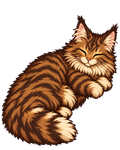
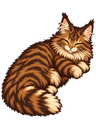
feat: みみぞうの歩行素材を用意しソファーのクーンを縮小する

diff --git a/docs/mimizou-walk-preview.html b/docs/mimizou-walk-preview.html
@@ -1,0 +1,37 @@
+<!doctype html>
+<html lang="ja">
+  <meta charset="utf-8" />
+  <meta name="viewport" content="width=device-width, initial-scale=1" />
+  <title>みみぞうの歩行素材プレビュー</title>
+  <style>
+    body { margin: 0; padding: 32px; font-family: system-ui, sans-serif; background: #ede6d7; color: #3c352c; }
+    main { max-width: 900px; margin: auto; }
+    h1 { font-size: 24px; }
+    p { line-height: 1.8; }
+    .directions { display: flex; flex-wrap: wrap; gap: 24px; }
+    figure { margin: 0; padding: 20px; border-radius: 12px; background: #fffaf0; text-align: center; }
+    .sprite { width: 96px; height: 104px; margin: auto; image-rendering: pixelated;
+      background-image: url('../assets/mimizou-walk-pixel.webp'); background-size: 288px 416px;
+      background-position-y: var(--row); animation: walk 640ms step-end infinite; }
+    figcaption { margin-top: 12px; }
+    .idle { width: 93px; height: 97px; image-rendering: pixelated; }
+    .paused .sprite { animation: none; background-position-x: -96px; }
+    button { padding: 10px 18px; font: inherit; margin: 20px 0; cursor: pointer; }
+    @keyframes walk { 0%,100% { background-position-x: 0; } 25%,75% { background-position-x: -96px; } 50% { background-position-x: -192px; } }
+    @media (prefers-reduced-motion: reduce) { .sprite { animation: none; background-position-x: -96px; } }
+  </style>
+  <main>
+    <h1>みみぞうの歩行素材プレビュー</h1>
+    <p>正面・左・右・後ろの4方向を収めた12コマの素材です。現在のゲームでは正面の静止コマを使っています。</p>
+    <button type="button" aria-pressed="false" onclick="const paused=document.body.classList.toggle('paused'); this.setAttribute('aria-pressed',String(paused)); this.textContent=paused?'歩行を再生':'静止コマで止める'">静止コマで止める</button>
+    <div class="directions">
+      <figure><div class="sprite" style="--row:0px" role="img" aria-label="正面の歩行"></div><figcaption>正面</figcaption></figure>
+      <figure><div class="sprite" style="--row:-104px" role="img" aria-label="左向きの歩行"></div><figcaption>左</figcaption></figure>
+      <figure><div class="sprite" style="--row:-208px" role="img" aria-label="右向きの歩行"></div><figcaption>右</figcaption></figure>
+      <figure><div class="sprite" style="--row:-312px" role="img" aria-label="後ろ向きの歩行"></div><figcaption>後ろ</figcaption></figure>
+    </div>
+    <h2>現在のシーンで使う静止素材</h2>
+    <img class="idle" src="../assets/mimizou-pixel.png" alt="正面で静止するみみぞう" />
+    <p>1コマは96×104px。列は左足・静止・右足、再生順は0→1→2→1です。ゲーム内の歩行機能はまだ追加していません。</p>
+  </main>
+</html>

diff --git a/tests/character-asset-quality.spec.ts b/tests/character-asset-quality.spec.ts
@@ -16,7 +16,7 @@ const singleSprites = [
 ];
 
 describe("character sprite transparency", () => {
-  it.each([...sheets, WALK_ASSET_NAME, ...singleSprites])(
+  it.each([...sheets, WALK_ASSET_NAME, "mimizou-walk-pixel.webp", ...singleSprites])(
     "removes the backing and keeps each frame inside its cell: %s",
     async (name) => {
       const { data, info } = await sharp(decodeURIComponent(new URL(name, assetDirectory).pathname))
@@ -24,7 +24,9 @@ describe("character sprite transparency", () => {
         .raw()
         .toBuffer({ resolveWithObject: true });
       const columns = singleSprites.includes(name) ? 1 : 3;
-      const rows = name === WALK_ASSET_NAME ? 4 : name === "etokichi-watering-directions-pixel.webp" ? 2 : 1;
+      const isWalkSheet = name === WALK_ASSET_NAME || name === "mimizou-walk-pixel.webp";
+      const rows = isWalkSheet ? 4 : name === "etokichi-watering-directions-pixel.webp" ? 2 : 1;
+      if (isWalkSheet) expect([info.width, info.height]).toEqual([288, 416]);
       const width = info.width / columns;
       const height = info.height / rows;
       const visibleByCell = Array<number>(columns * rows).fill(0);

diff --git a/tests/assets.spec.ts b/tests/assets.spec.ts
@@ -7,8 +7,8 @@ import { FURNITURE_DEFINITIONS } from "../src/rendering/room-furniture.ts";
 import { ACTION_ASSET_NAMES, WALK_ASSET_NAME } from "../src/rendering/scene-assets.ts";
 import { presentationAssetNames, VISITS } from "./helpers/asset-references.ts";
 
-// ロゴはfaviconやOGP向けで、部屋の描画からは参照しない。
-const UNREFERENCED_ASSET_NAMES = new Set(["etokicchi-logo.png"]);
+// ロゴはfaviconやOGP向け。みみぞうの歩行シートは将来の移動用で、現行シーンは正面の静止素材を使う。
+const UNREFERENCED_ASSET_NAMES = new Set(["etokicchi-logo.png", "mimizou-walk-pixel.webp"]);
 
 const referencedAssetNames = new Set<string>([
   ...Object.values(ACTION_ASSET_NAMES).filter((name): name is string => Boolean(name)),

diff --git a/src/content/updates.ts b/src/content/updates.ts
@@ -10,6 +10,14 @@ export interface UpdateEntry {
 /** 新しい更新を先頭に追加する。日付は変更をまとめた日。 */
 export const UPDATES: readonly UpdateEntry[] = [
   {
+    id: "2026-09-12-5",
+    date: "2026-09-12",
+    changes: [
+      "みみぞうの姿を、新しいイラストに合わせて整えました。",
+      "ソファーの上のクーンちゃんを、一回り小さくしました。",
+    ],
+  },
+  {
     id: "2026-09-12-4",
     date: "2026-09-12",
     changes: [

diff --git a/src/content/scene-presentations.ts b/src/content/scene-presentations.ts
@@ -748,8 +748,8 @@ export const SCENE_PRESENTATIONS: Readonly<Record<SceneId, ScenePresentationDefi
           furnitureId: "sofa",
           assetName: "decor-cat-sofa-curled-compact-pixel.webp",
           offset: { x: 8, y: -14 },
-          width: 60,
-          height: 75,
+          width: 48,
+          height: 60,
           depthOffset: 1,
         },
       },

diff --git a/tests/room-presentation.spec.ts b/tests/room-presentation.spec.ts
@@ -393,8 +393,8 @@ describe("room presentation", () => {
           furnitureId: "sofa",
           assetName: "decor-cat-sofa-curled-compact-pixel.webp",
           offset: { x: 8, y: -14 },
-          width: 60,
-          height: 75,
+          width: 48,
+          height: 60,
           depthOffset: 1,
         },
       },

diff --git a/docs/mimizou-imagegen.md b/docs/mimizou-imagegen.md
@@ -1,6 +1,51 @@
 # みみぞうの画像生成記録
 
-## 現行素材: オリジナルのフォルムを復元
+## 現行素材: 歩行用12コマと静止コマ
+
+外見の基準はタダシが新たに指定した [デザイン参照](assets/mimizou-design-reference.png)。大きな縦長の白目、下寄りの小さな瞳、丸い体、灰色の腹部の斑点、短い黄色の足を保持し、組み込みimagegenで4方向の歩行素材を制作した。
+
+| ファイル | 用途 |
+| --- | --- |
+| `assets-src/mimizou-pixel.png` | 1086×1448pxの原画。3列×4行、単色マゼンタ背景 |
+| `public/assets/mimizou-walk-pixel.webp` | 将来の歩行用。288×416px、各コマ96×104px |
+| `public/assets/mimizou-pixel.png` | 現行シーン用の正面静止コマ。93×97px |
+
+- 行は正面・左・右・後ろ。列は左足の一歩・静止・右足の一歩。
+- 歩行ループは列0→1→2→1。プレビューでは1コマ160ms。停止は各行の中央コマ。
+- 足元アンカーは中央下。歩行シートの足元はセル下端から4px上を基準とし、歩幅の差を残して行ごとに整列する。
+- `pnpm assets:normalize` は透過後に列ごとの4つの不透明帯を検出し、全12コマ共通倍率でセルへ収める。既存エトキチの変換倍率は変えない。
+- 静止PNGは同じ原画の正面中央コマから、左394・上41・幅298・高さ300を切り出して生成する。
+- 現行の訪問・見送り・星見は静止PNGを継続使用し、歩行アニメーションや移動経路は追加しない。歩行WebPは将来用として未使用素材チェックに明示的な例外を設けた。
+
+[歩行プレビュー](http://127.0.0.1:4173/etokicchi/docs/mimizou-walk-preview.html) は開発サーバー上で開く。4方向の歩行と各方向の静止を比較できる。
+
+### 生成プロンプト
+
+検証は12コマの境界・空白・透過検査と歩行プレビューの全方向全コマ、訪問・見送り・星見・ソファーのクーンを390px幅と1280px幅で確認した。星見のみみぞうのタップで本人のフキダシが出ることも確認。523テスト・型検査・整形・ビルド成功、既存Lint警告3件。素材変換を再実行して対象3素材と既存エトキチ歩行シートのSHA-256が一致した。
+
+画像1が新しいデザイン参照、画像2は `decor-cat-loaf-pixel.webp` を画風参照として使用。
+
+```text
+Use case: identity-preserve, game sprite sheet. Image 1 is the ONLY character design reference: Mimizou the grey round owl. Image 2 is ONLY desired fine pixel-art texture/density, not a subject. Create a production WALK CYCLE sheet of Mimizou: EXACTLY 3 equal COLUMNS by 4 equal ROWS, TWELVE full-body sprites, portrait 3:4 sheet. Row 1 facing FRONT/down. Row 2 pure LEFT side profile. Row 3 pure RIGHT side profile. Row 4 BACK view facing away. In EACH row columns are left-foot step, neutral standing with both feet level, right-foot step. Compact waddling terrestrial walk, wings stay folded against sides, slight alternating foot lift and tiny body sway, no flying or hopping. Keep consistent body size, proportions, center and foot baseline in every cell; generous equal clear margins within cells, no touching cell edges. Reference design MUST remain identifiable: broad near-round grey body with large charcoal-grey head/face, TWO BIG VERTICAL OVAL off-white eyes with very small black pupils low/inward, small leaf-shaped yellow beak, light-grey lower belly with sparse dark blue-grey oval feather spots, folded grey side wings, tiny yellow three-toed feet. Head/belly proportions, eye shape and placement, expression, grey palette and broad round outline MUST match image 1, not a generic owl. Back and side views use the same body proportions, dark grey back with subtle feathers, folded wings, no extra tail or accessories. Crown has only reference's small flat feather tips, no horns/ear tufts. Deliberate FINE PIXEL ART with tiny nuanced grey shade clusters and thin subtle charcoal contour matching detailed game assets; not smooth vector, not painterly blur, not chunky black borders. Single sprite sheet only, no text, labels, grid lines, shadows or extra characters. Every backdrop/gap is uniform pure RGB(255,0,255) #ff00ff MAGENTA for chroma key, including between toes. Front CENTER neutral sprite will also be used as the current static game character. Make that sprite especially faithful to the reference.
+```
+
+### 横向きの方向修正
+
+最初の生成では横向きの3列目が逆を向いたため修正した。
+
+```text
+Precise sprite sheet correction. Keep entire existing 3-column 4-row sheet EXACTLY unchanged except TWO cells: row 2 column 3 and row 3 column 3. Row 2 column 3 incorrectly faces RIGHT: redraw it facing LEFT, matching row 2 columns 1 and 2, as opposite walking foot phase to row 2 column 1. Row 3 column 3 incorrectly faces LEFT: redraw it facing RIGHT, matching row 3 columns 1 and 2, opposite walking foot phase to row 3 column 1. Every sprite in row 2 must look LEFT (beak on left). Every sprite in row 3 must look RIGHT (beak on right). Keep all other TEN cells exactly unchanged. Preserve the owl design, pixel art, body size, magenta background, all grid positions and margins. No added cells/text, no layout shifts. This is a WALK LOOP, each row's direction must stay constant through three frames.
+```
+
+### 左右の足の位相修正
+
+横向きの1列目と3列目が同じ足を上げていたため、3列目では反対側の足を上げるよう修正した。
+
+```text
+Surgical correction to FEET ONLY of two sprites in this 3-column, 4-row sheet. Row 2 column 3 faces LEFT: its LEFTMOST foot by beak must now be firmly planted LOWER on the shared floor baseline, while its RIGHTMOST foot near rump must be lifted UP visibly by about one foot-height. Row 3 column 3 faces RIGHT: its RIGHTMOST foot by beak must now be firmly planted LOWER on baseline, while its LEFTMOST foot by rump must be lifted UP visibly. These two cells currently repeat the first column's step and need the OPPOSITE foot lifted. DO NOT change bodies, eyes, wings, size, orientation, positions, spacing, colors or any pixels in other TEN cells. Keep pure #ff00ff background and exact 3x4 layout. The two corrected poses must clearly lift the BACK foot instead of the FRONT foot, without adding feet. Keep both feet attached beneath body, no shadows.
+```
+
+## 旧版: 小さいオリジナルからフォルムを復元
 
 前回は既存ドット絵を外見参照にしたため、オリジナルから形が離れていた。タダシから提供された [オリジナル画像](assets/mimizou-original.png) を外見の正本に切り替え、組み込みimagegenで描き直した。
 

diff --git a/docs/sleep-sprite-density.md b/docs/sleep-sprite-density.md
@@ -10,7 +10,7 @@
 | `etokichi-sleep-covered-pixel.png` | 106×78 | 布団を掛け直した寝姿 |
 | `etokichi-sleep-kicked-pixel.png` | 112×78 | 布団を蹴った寝姿 |
 | `etokichi-window-nap-star-book-pixel.png` | 144×144 | 窓辺とクーン枕で共用 |
-| `decor-cat-sofa-curled-compact-pixel.webp` | 120×150 | ソファーで丸まるクーン |
+| `decor-cat-sofa-curled-compact-pixel.webp` | 96×120 | ソファーで丸まるクーン。原画承認後に表示寸法を48×60へ20％縮小 |
 | `etokichi-sleep-pixel.webp` | 126×84 | 既定の寝姿素材。現行の各寝姿シーンでは専用素材を使用 |
 
 外周の切れを避けるため、元絵が端まで達していた寝顔と掛け直しには約1pxの余白を確保した。ソファーのクーンは60×75pxの拡大から、高解像度原画の縮小へ切り替えた。
